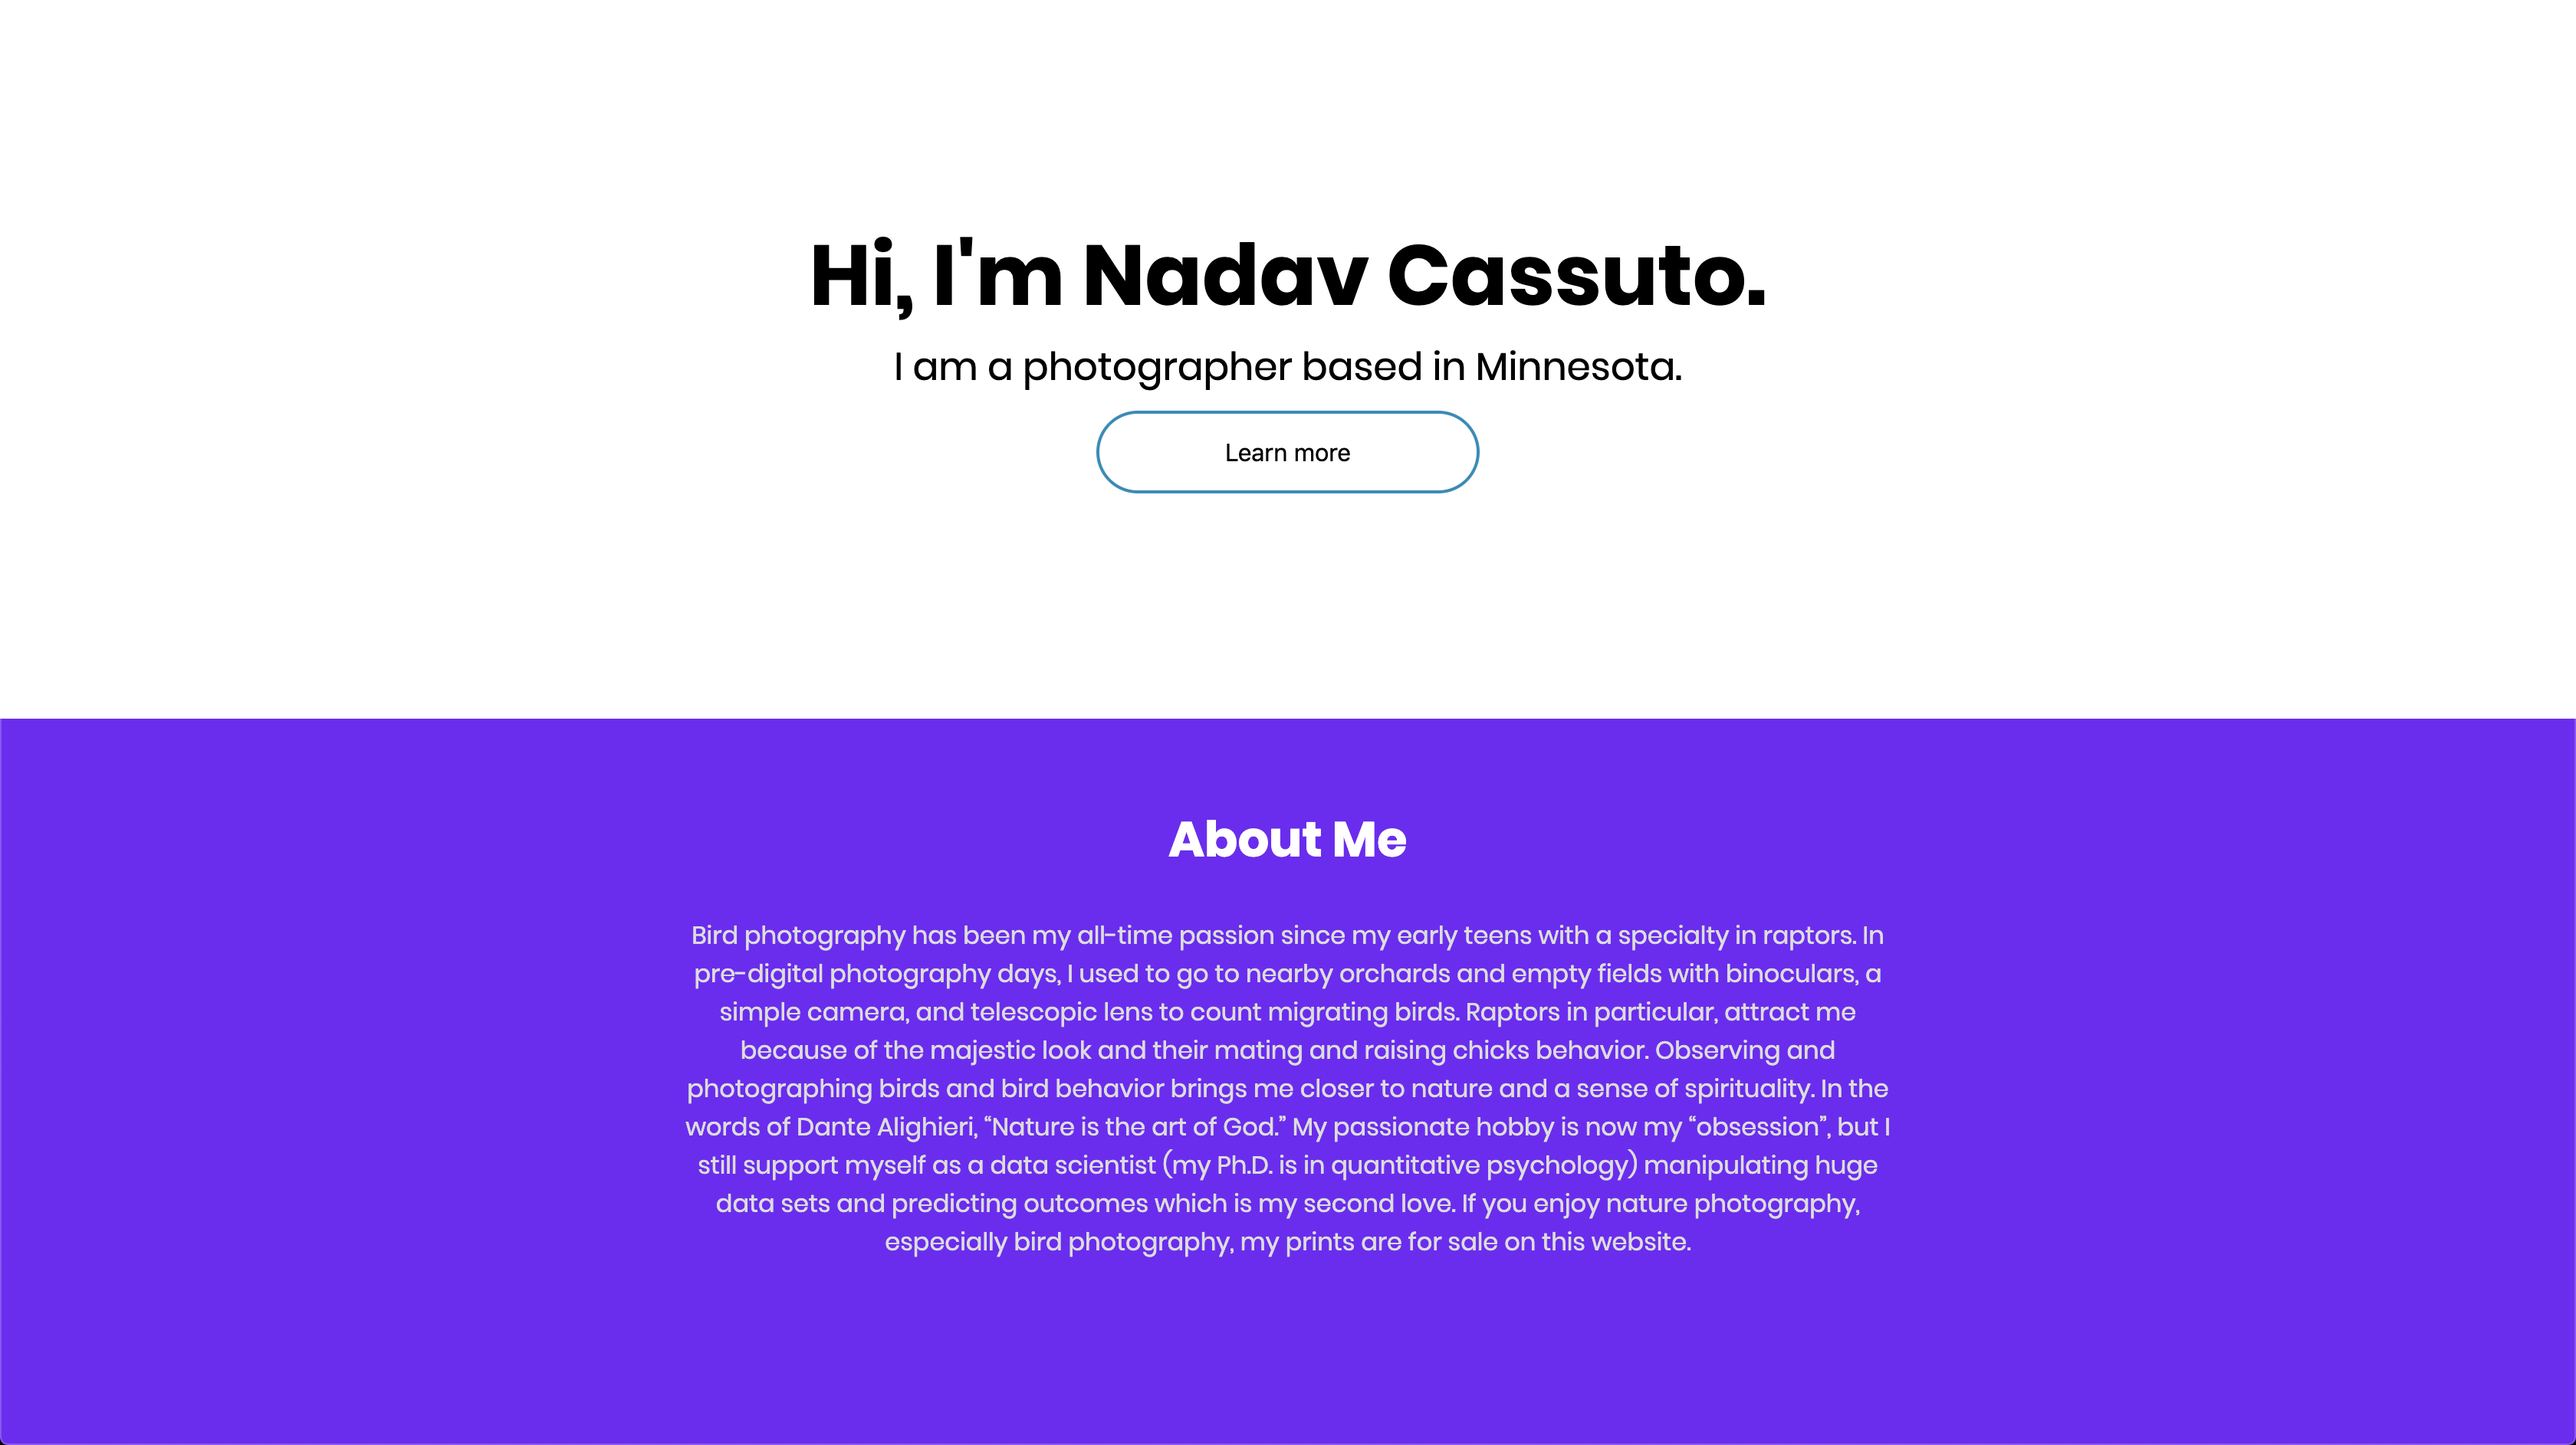
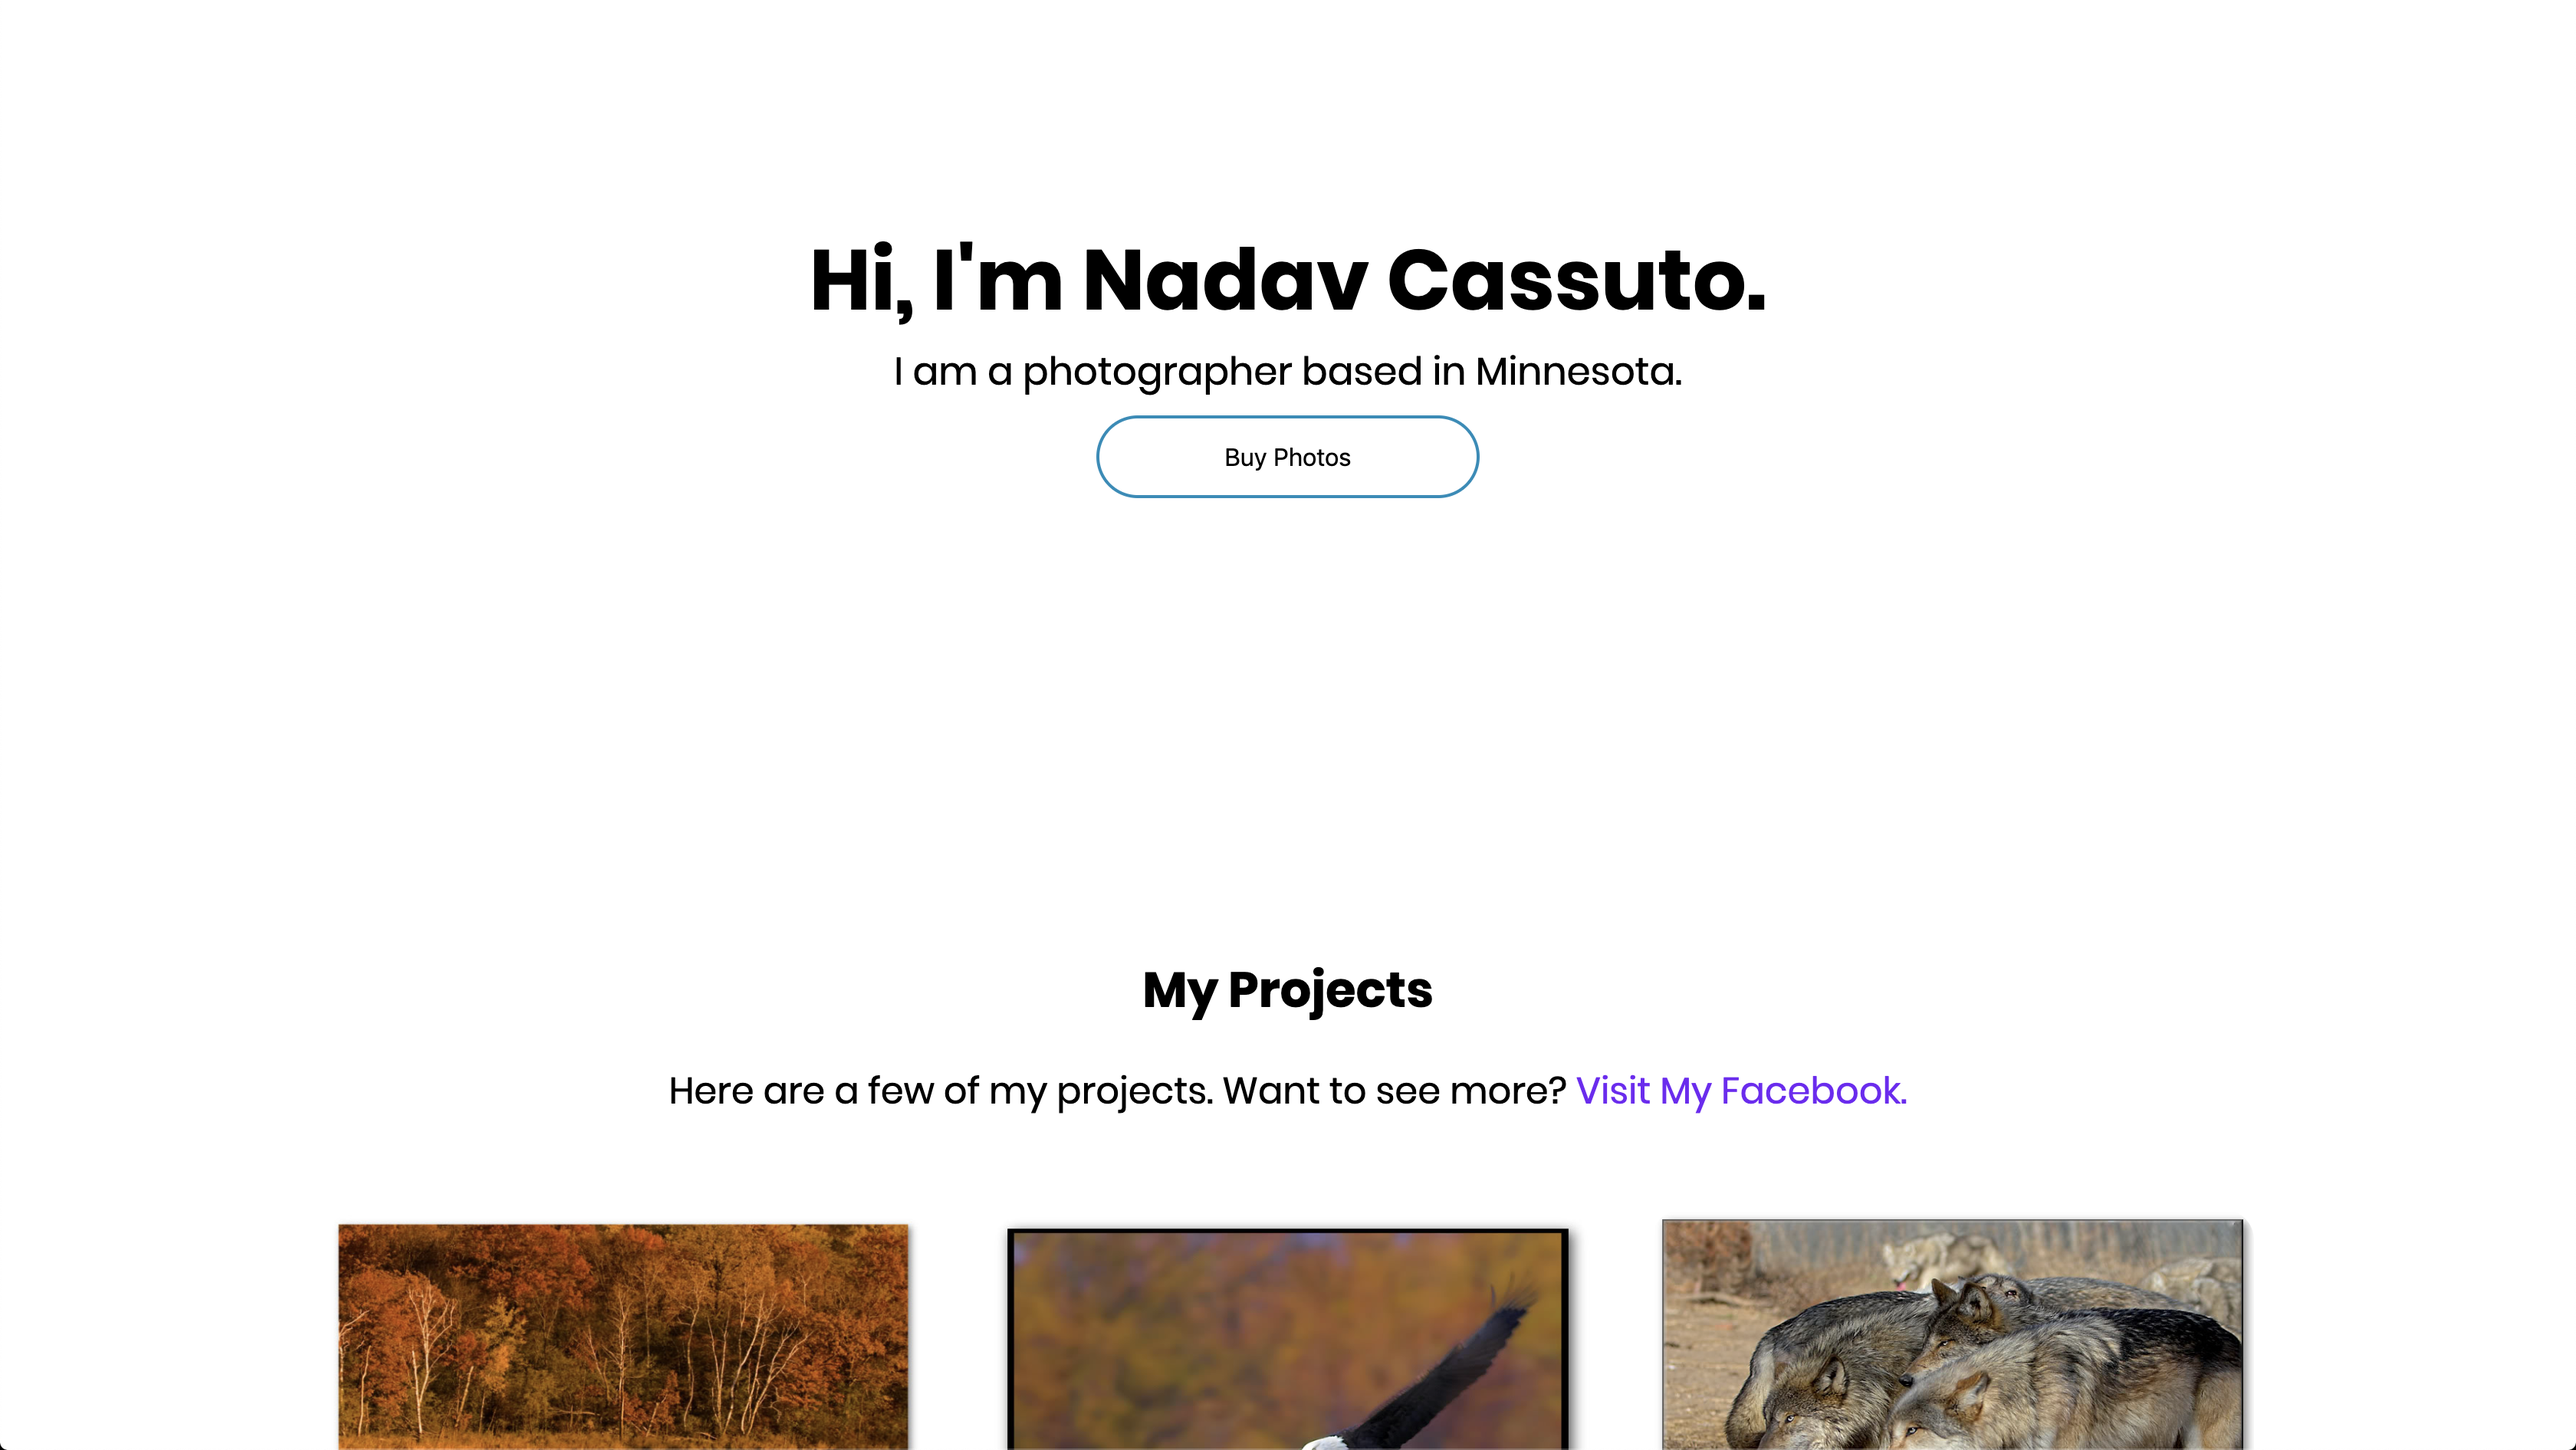
CHANGED WEBSITE LAYOUT

diff --git a/css/mobile.css b/css/mobile.css
@@ -15,11 +15,11 @@
     }
 
     .right-section-img {
-        transform: scale(2.3);
+        transform: scale(1.4);
     }
 
     .right-section-img:hover {
-        transform: scale(2.4);
+        transform: scale(1.5);
     }
 }
 
@@ -36,14 +36,6 @@
         padding: 12px;
         font-size: 16px;
     }
-
-    .right-section-img {
-        transform: scale(2.1);
-    }
-
-    .right-section-img:hover {
-        transform: scale(2.2);
-    }
 }
 
 @media(max-width: 1150px) {
@@ -59,54 +51,30 @@
         padding: 11px;
         font-size: 15px;
     }
-
-    .right-section-img {
-        transform: scale(2.0);
-    }
-
-    .right-section-img:hover {
-        transform: scale(2.1);
-    }
 }
 
-@media(max-width: 1000px) {
+@media(max-width: 800px) {
     .left-section-title {
-        font-size: 38px;
+        font-size: 40px;
     }
 
     .left-section-subtitle {
-        font-size: 19px;
+        font-size: 20px;
     }
 
     .btn {
         padding: 12px;
         font-size: 15px;
     }
-
-    .right-section-img {
-        transform: scale(1.9);
-    }
-
-    .right-section-img:hover {
-        transform: scale(2.0);
-    }
 }
 
-@media(max-width: 850px) {
+@media(max-width: 750px) {
     .left-section-title {
         font-size: 34px;
     }
 
     .left-section-subtitle {
         font-size: 18px;
-    }
-
-    .right-section-img {
-        transform: scale(1.8);
-    }
-
-    .right-section-img:hover {
-        transform: scale(2.0);
     }
 }
 
@@ -117,14 +85,6 @@
 
     .left-section-subtitle {
         font-size: 17px;
-    }
-
-    .right-section-img {
-        transform: scale(1.6);
-    }
-
-    .right-section-img:hover {
-        transform: scale(1.7);
     }
 }
 
@@ -149,6 +109,10 @@
         width: 200px;
         font-size: 0.9em;
     }
+
+    .services-section {
+        margin-top: -30px;
+    }
 }
 
 @media(max-width: 500px) {
@@ -159,23 +123,12 @@
     .left-section-subtitle {
         font-size: 15px;
     }
-
-    .right-section-img {
-        transform: scale(1.40);
-    }
-
-    .right-section-img:hover {
-        transform: scale(1.3);
-    }
 }
-
-
 
 @media(max-width: 1300px) {
     .projects-grid {
         grid-template-columns: repeat(2, 1fr);
     }
-
 }
 
 @media(max-width: 1000px) {
@@ -185,6 +138,10 @@
 
     .sections-grid {
         grid-template-columns: repeat(1, 1fr);
+    }
+
+    .right-section-img {
+        display: none;
     }
 
     .right-section {
@@ -212,7 +169,6 @@
     }
 }
 
-
 @media(max-width: 800px) {
     .service {
         padding: 4em 1em;
@@ -224,7 +180,6 @@
 }
 
 @media(max-width: 700px) {
-
     .aboutme-section {
         max-height: 700px;
     }

diff --git a/css/main.css b/css/main.css
@@ -2,15 +2,11 @@
 .sections-grid {
     display: grid;
     grid-template-columns: repeat(2, 1fr);
-    min-height: 100vh;
+    min-height: 50vh;
     background-color: white;
     animation-name: main-section;
     animation-duration: 1.5s;
     animation-direction: forwards;
-    /* background-image: url('../img/bg.png');
-    background-repeat: no-repeat;
-    background-size: cover;
-    background-position: center; */
     transform: scale(0.90);
     border-radius: 50px;
     transition: 0.5s;
@@ -34,7 +30,7 @@
 }
 
 .left-section-inside {
-    min-width: 95%;
+    min-width: 100%;
     margin-left: auto;
     margin-right: auto;
     padding: 5px;
@@ -42,8 +38,10 @@
 
 .right-section {
     display: grid;
+    padding: 0;
     align-content: center;
     justify-content: center;
+    width: 40%;
 }
 
 .left-section-title {
@@ -55,19 +53,18 @@
 .left-section-subtitle {
     font-size: 25px;
     margin-top: 0;
-    margin-bottom: 5px;
+    margin-bottom: 10px;
 }
-
 
 .right-section-img {
     max-width: 100%;
-    margin-left: auto;
+    margin-left: 100px;
     margin-right: auto;
-    transform: scale(2.5);
+    transform: scale(1.5);
     transition: 0.35s;
 }
 
 .right-section-img:hover {
-    transform: scale(2.6);
+    transform: scale(1.6);
     cursor: pointer;
 }

diff --git a/index.html b/index.html
@@ -89,7 +89,7 @@
             </div>
             <div class="project">
                 <div class="project-img">
-                    <img src="img/nadav.png" alt="">
+                    <img src="img/nadavproject.png" alt="">
                 </div>
                 <div class="project-info">
                     <h2>Nadav Photography</h2><br>
